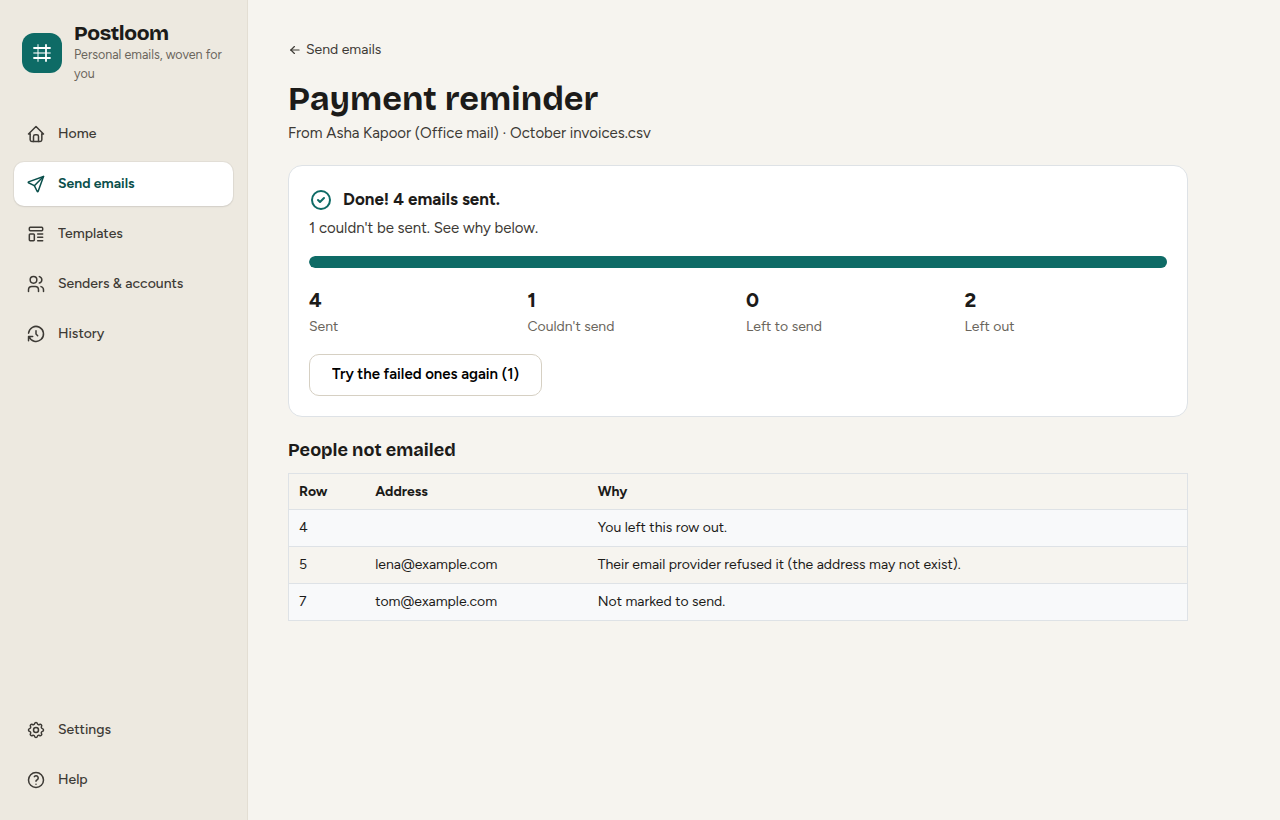
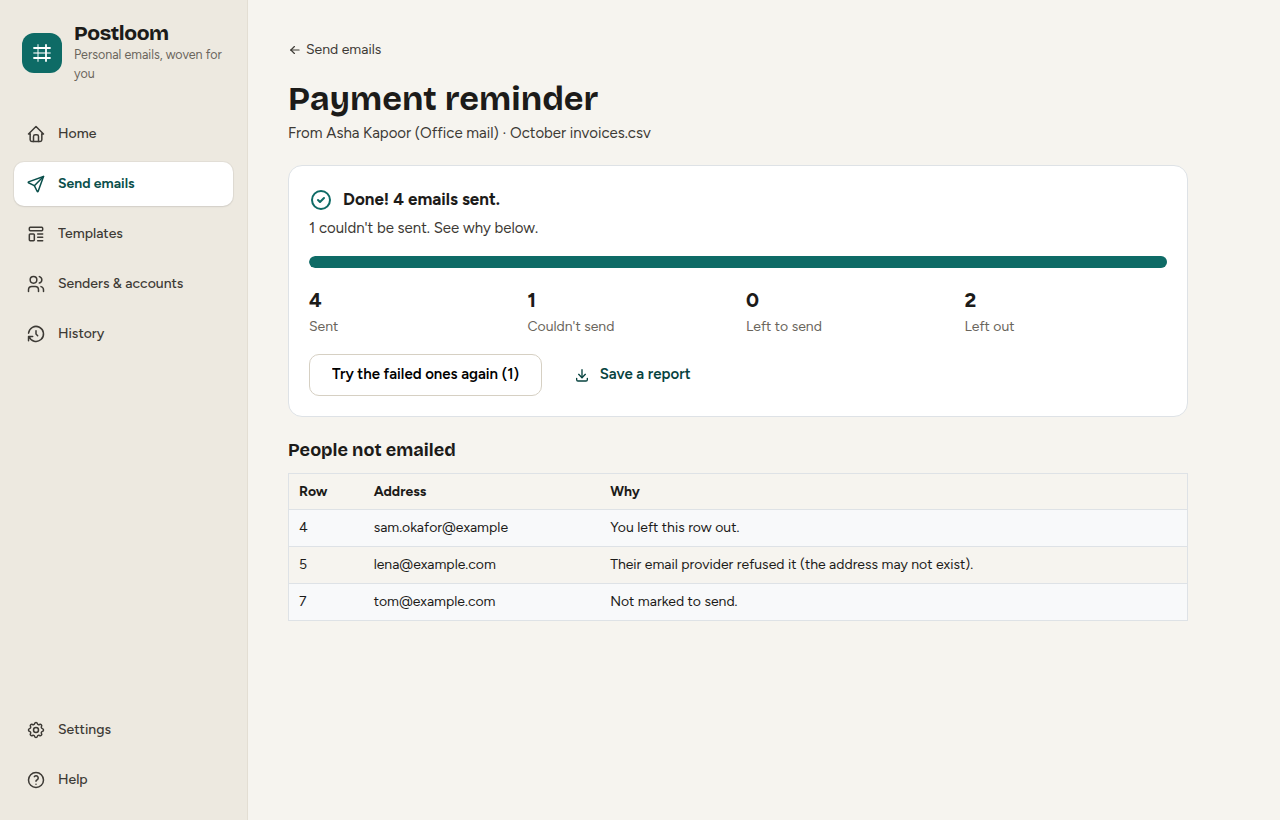
test(send): attachments and History end to end; docs and screenshots
E2E: a list with an Attachment column sends each person their own files
(relative to the list's folder, plus one from a folder trusted on the
Check step); a missing file is a must-fix, left out; History opens the
send and saves a report checked line by line.

The preview security test now waits for the app's own preview before
swapping in hostile HTML: the app's preview could arrive later and
replace it, making the test fail at random.

PLAN progress: Phase 4 complete. Threat model: attachment and CSV
injection controls. New screenshots of History.

Claude-Session: https://claude.ai/code/session_01BMQQrWQpb8JeBGLchMfXnE

diff --git a/apps/desktop/e2e/attachments.spec.ts b/apps/desktop/e2e/attachments.spec.ts
@@ -1,0 +1,112 @@
+import { mkdirSync, mkdtempSync, readFileSync, rmSync, writeFileSync } from 'node:fs';
+import { tmpdir } from 'node:os';
+import { join } from 'node:path';
+import { expect, firstPage, launchApp, test } from './fixtures';
+import { startTestMailServer } from './mail-server';
+
+const ADDRESS = 'asha@example.com';
+const PASSWORD = 'abcd efgh ijkl mnop';
+
+test('sends each person their own files, then saves a report from History', async ({
+  userDataDir,
+}) => {
+  const mail = await startTestMailServer({ username: ADDRESS, password: PASSWORD });
+  const caFile = join(userDataDir, 'test-ca.pem');
+  writeFileSync(caFile, mail.caPem);
+
+  // The list sits in its own folder, with the invoices next to it.
+  const listFolder = join(userDataDir, 'October');
+  mkdirSync(join(listFolder, 'invoices'), { recursive: true });
+  writeFileSync(join(listFolder, 'invoices', 'INV-1001.pdf'), '%PDF-1.7 invoice for Ben');
+  writeFileSync(join(listFolder, 'invoices', 'INV-1003.pdf'), '%PDF-1.7 invoice for Dan');
+  const elsewhere = mkdtempSync(join(tmpdir(), 'postloom-brochures-'));
+  writeFileSync(join(elsewhere, 'brochure.pdf'), '%PDF-1.7 brochure');
+  const listFile = join(listFolder, 'invoices.csv');
+  writeFileSync(
+    listFile,
+    [
+      'Email,First Name,Invoice No,Amount,Due Date,Attachment',
+      `ben@example.com,Ben,INV-1001,£120.00,1 October,invoices/INV-1001.pdf;${join(elsewhere, 'brochure.pdf')}`,
+      'cara@example.com,Cara,INV-1002,£80.00,2 October,invoices/INV-1002.pdf',
+      'dan@example.com,Dan,INV-1003,£45.50,3 October,invoices/INV-1003.pdf',
+    ].join('\n'),
+  );
+  const reportFile = join(userDataDir, 'report.csv');
+  const app = await launchApp(userDataDir, {
+    POSTLOOM_TEST_EXTRA_CA_FILE: caFile,
+    POSTLOOM_TEST_PICK_SPREADSHEET: listFile,
+    POSTLOOM_TEST_SAVE_REPORT: reportFile,
+  });
+  const page = await firstPage(app);
+
+  await page.getByRole('button', { name: 'Connect your email' }).click();
+  await page.getByRole('button', { name: "Let's start" }).click();
+  await page.getByRole('radio', { name: /Something else/ }).check();
+  await page.getByRole('button', { name: 'Continue with Something else' }).click();
+  await page.getByLabel('Your email address').fill(ADDRESS);
+  await page.getByLabel(/^Password/).fill(PASSWORD);
+  await page.getByLabel('Outgoing mail server (SMTP)').fill('localhost');
+  await page.getByLabel('Port').fill(String(mail.port));
+  await page.getByRole('button', { name: 'Check and save' }).click();
+  await page.getByLabel('Name people see').fill('Asha Kapoor');
+  await page.getByRole('button', { name: 'Continue' }).click();
+  await page.getByRole('button', { name: 'Skip for now' }).click();
+  await page.getByRole('button', { name: 'Go to Home' }).click();
+  await page.getByRole('link', { name: 'Templates' }).click();
+  await page.getByRole('button', { name: 'New template' }).first().click();
+  await page.getByRole('radio', { name: /Payment reminder/ }).check();
+  await page.getByRole('button', { name: 'Make template' }).click();
+  await expect(page.getByTestId('save-status')).toHaveText('Saved');
+
+  await page.getByRole('link', { name: 'Send emails' }).click();
+  await page.getByRole('button', { name: 'Choose a file…' }).click();
+  await expect(page.getByRole('combobox', { name: /Files to attach/ })).toHaveValue('Attachment');
+  await page.getByRole('button', { name: 'Continue' }).click();
+  await page.getByRole('combobox', { name: 'Template' }).click();
+  await page.getByRole('option', { name: 'Payment reminder' }).click();
+  await expect(page.getByRole('combobox', { name: 'Invoice No' })).toHaveValue('Invoice No');
+  await page.getByRole('button', { name: 'Continue' }).click();
+
+  // Cara's invoice doesn't exist; the brochure comes from a folder not used before.
+  const mustFix = page.getByRole('region', { name: 'Must fix before sending' });
+  await expect(mustFix).toContainText("1 row names a file to attach that can't be found.");
+  await mustFix.getByRole('button', { name: 'Leave these rows out' }).click();
+  await expect(
+    page.getByText(/Some files come from a folder you haven't used before/),
+  ).toBeVisible();
+  await page.getByRole('button', { name: 'These are fine, trust these folders' }).click();
+  await expect(page.getByText(/Some files come from a folder/)).toBeHidden();
+  await expect(page.getByText(/^With 3 attached files/)).toBeVisible();
+  await expect(page.getByText('INV-1001.pdf')).toBeVisible();
+  await expect(page.getByText('brochure.pdf')).toBeVisible();
+
+  await page.getByRole('button', { name: 'Continue without a test' }).click();
+  await page.getByRole('button', { name: 'Continue' }).first().click();
+  await page.getByRole('button', { name: 'Send now' }).click();
+  await expect(page.getByText('Done! 2 emails sent.')).toBeVisible({ timeout: 30_000 });
+
+  const ben = mail.received.find((email) => email.to[0] === 'ben@example.com')?.raw ?? '';
+  const dan = mail.received.find((email) => email.to[0] === 'dan@example.com')?.raw ?? '';
+  expect(ben).toContain('filename=INV-1001.pdf');
+  expect(ben).toContain('filename=brochure.pdf');
+  expect(ben).not.toContain('INV-1003.pdf');
+  expect(dan).toContain('filename=INV-1003.pdf');
+  expect(mail.received.map((email) => email.to[0])).not.toContain('cara@example.com');
+
+  // History keeps the send; its report says what happened to everyone.
+  await page.getByRole('link', { name: 'History' }).click();
+  await page.getByRole('link', { name: /^Open Payment reminder from / }).click();
+  await page.getByRole('button', { name: 'Save a report' }).click();
+  await expect(page.getByText('Report saved as report.csv.')).toBeVisible();
+  const report = readFileSync(reportFile, 'utf8')
+    .replace(/^\uFEFF/, '')
+    .trim()
+    .split('\r\n');
+  expect(report[0]).toBe('Row,To,Cc,Bcc,Status,Why,When,Message ID');
+  expect(report.find((line) => line.startsWith('2,'))).toContain('ben@example.com,,,Sent');
+  expect(report.find((line) => line.startsWith('3,'))).toContain('Left out');
+
+  await app.close();
+  await mail.close();
+  rmSync(elsewhere, { recursive: true, force: true });
+});

diff --git a/apps/desktop/e2e/security.spec.ts b/apps/desktop/e2e/security.spec.ts
@@ -52,8 +52,9 @@ test('the preload exposes only the typed Postloom API', async ({ page }) => {
     senders: ['create', 'delete', 'list', 'setBrand', 'update'],
     assets: ['pickImage', 'totalSize'],
     // The screen never gets a file path, only a token for the picked list.
-    recipients: ['check', 'inspect', 'pick', 'row'],
+    recipients: ['approveFolders', 'check', 'inspect', 'pick', 'row'],
     sends: [
+      'exportReport',
       'get',
       'list',
       'pause',
@@ -182,6 +183,10 @@ test('the email preview runs without scripts or same-origin access', async ({ pa
 
   const frame = page.locator('iframe[title="Email preview"]');
   await expect(frame).toHaveAttribute('sandbox', '');
+  // Wait for the app's own preview first, so it can't replace the hostile HTML below.
+  await expect(
+    page.frameLocator('iframe[title="Email preview"]').getByText('Dear [First Name],'),
+  ).toBeVisible();
 
   // Simulate hostile email HTML (e.g. from an imported template) reaching the preview.
   const result = await page.evaluate(async () => {

diff --git a/apps/desktop/e2e/screenshots.spec.ts b/apps/desktop/e2e/screenshots.spec.ts
@@ -270,6 +270,15 @@ test('capture the send wizard', async ({ userDataDir }) => {
     await page.screenshot({ path: `${out}/send-done-${scheme}.png` });
   }
 
+  // History keeps every send.
+  await page.getByRole('link', { name: 'History' }).click();
+  await page.getByRole('table', { name: 'Sends' }).waitFor();
+  for (const scheme of ['light', 'dark'] as const) {
+    await page.emulateMedia({ colorScheme: scheme });
+    await page.waitForTimeout(400);
+    await page.screenshot({ path: `${out}/history-${scheme}.png` });
+  }
+
   await app.close();
   await mail.close();
 });

diff --git a/apps/desktop/src/main/report.test.ts b/apps/desktop/src/main/report.test.ts
@@ -44,7 +44,10 @@ describe('reports', () => {
       }),
       person({ rowNo: 4, to: ['=cmd@example.com'], status: 'skipped', errorCode: 'doNotEmail' }),
     ]);
-    const lines = csv.replace(/^\uFEFF/, '').trim().split('\r\n');
+    const lines = csv
+      .replace(/^\uFEFF/, '')
+      .trim()
+      .split('\r\n');
     expect(lines[0]).toBe('Row,To,Cc,Bcc,Status,Why,When,Message ID');
     expect(lines[1]).toBe('2,asha@example.com,,,Sent,,2026-09-25T10:00:00.000Z,<1@example.com>');
     expect(lines[2]).toBe(

diff --git a/docs/security/threat-model.md b/docs/security/threat-model.md
@@ -27,7 +27,8 @@ Email account secrets · recipient personal data · the user's machine · the us
 | | The same email sent twice after a crash or dropped connection | Claim-before-send (committed); only "nothing was sent" failures retried; lost connections marked uncertain and never resent without asking ([ADR 0008](../adr/0008-sending-engine.md)) |
 | **Information disclosure** | Script in imported HTML reads files | Sandboxed renderer, no Node, strict CSP, sanitization, sandboxed preview iframe without scripts |
 | | A "picture" that is really a script or document, or a photo leaking its GPS location | Pictures only via the OS file picker; PNG/JPEG recognised by magic bytes; re-encoded (metadata dropped); served only from the app's own store with `nosniff` ([ADR 0006](../adr/0006-images-inside-emails.md)) |
-| | Spreadsheet attaches `~/.ssh/id_rsa` and sends it out | Attachment review step; folder allowlist; sensitive-path blocklist |
+| | Spreadsheet attaches `~/.ssh/id_rsa` and sends it out | Files checked where they really are (shortcuts followed); private files (keys, `.ssh`, `.env`, keychains, browser password stores) blocked and never sent; files from unapproved folders flagged; checked again just before sending; 18 MB per email |
+| | A saved report runs a formula when opened in a spreadsheet | Every CSV cell starting with `= + - @`, tab or CR is prefixed with `'` |
 | | Passwords in logs or crash reports | Redaction layer with tests; opt-in crash reports with PII scrubbing |
 | | Lost laptop exposes recipient data | Retention limits; clear-history; OS disk encryption guidance; optional DB encryption (1.x) |
 | **Denial of service** | Account locked by sending too fast | Delay between emails, daily limit across all sends per account, one running send per account, circuit breaker |
@@ -37,5 +38,5 @@ Email account secrets · recipient personal data · the user's machine · the us
 
 ## Open items
 - Validate CSP against the chosen editor (Phase 0).
-- Decide attachment folder-allowlist UX (Phase 4).
+- ~~Decide attachment folder-allowlist UX (Phase 4).~~ The list's own folder is trusted; other folders are flagged once, with "trust these folders".
 - External security review before the public 1.0 release.

diff --git a/docs/PLAN.md b/docs/PLAN.md
@@ -648,7 +648,13 @@ Estimates assume one developer working with AI assistance; they're rough and get
   - after a crash or forced quit, the interrupted send waits on the Send emails page; the computer sleeping pauses sending; quitting mid-send asks first; a notification says when a send finishes or pauses on its own;
   - a send keeps the exact template version it used.
 
-  Still to do in Phase 4: attachments (with folder safety) and history with reports. Reading very large spreadsheets still happens in the main process, within the 25 MB / 20,000-row limits.
+  Third increment, attachments and history:
+  - an "Attachment" column gives each person their own files (several separated by `;`, paths can start from the list's folder);
+  - before sending, every file is found where it really is (shortcuts followed). Must fix: a file that isn't there, a private file (keys, `.ssh`, `.env`, keychains, browser password stores, never sent), or more than 18 MB on one email. Worth a look: files from folders not used before, with "trust these folders";
+  - the sending process checks each file again just before sending it, and fails only that person, with the reason, if it changed;
+  - History lists every send; each opens its result, and "Save a report" writes a CSV of everyone with what happened and why (formula-safe, so it can't run anything when opened in a spreadsheet).
+
+  Phase 4 is complete. Still to do: usability round 3 (owner). Reading very large spreadsheets still happens in the main process, within the 25 MB / 20,000-row limits.
 
 **Total:** roughly 19-23 weeks to 1.0 stable. Phases 2 and 3 can overlap once Phase 1 is done.
 
